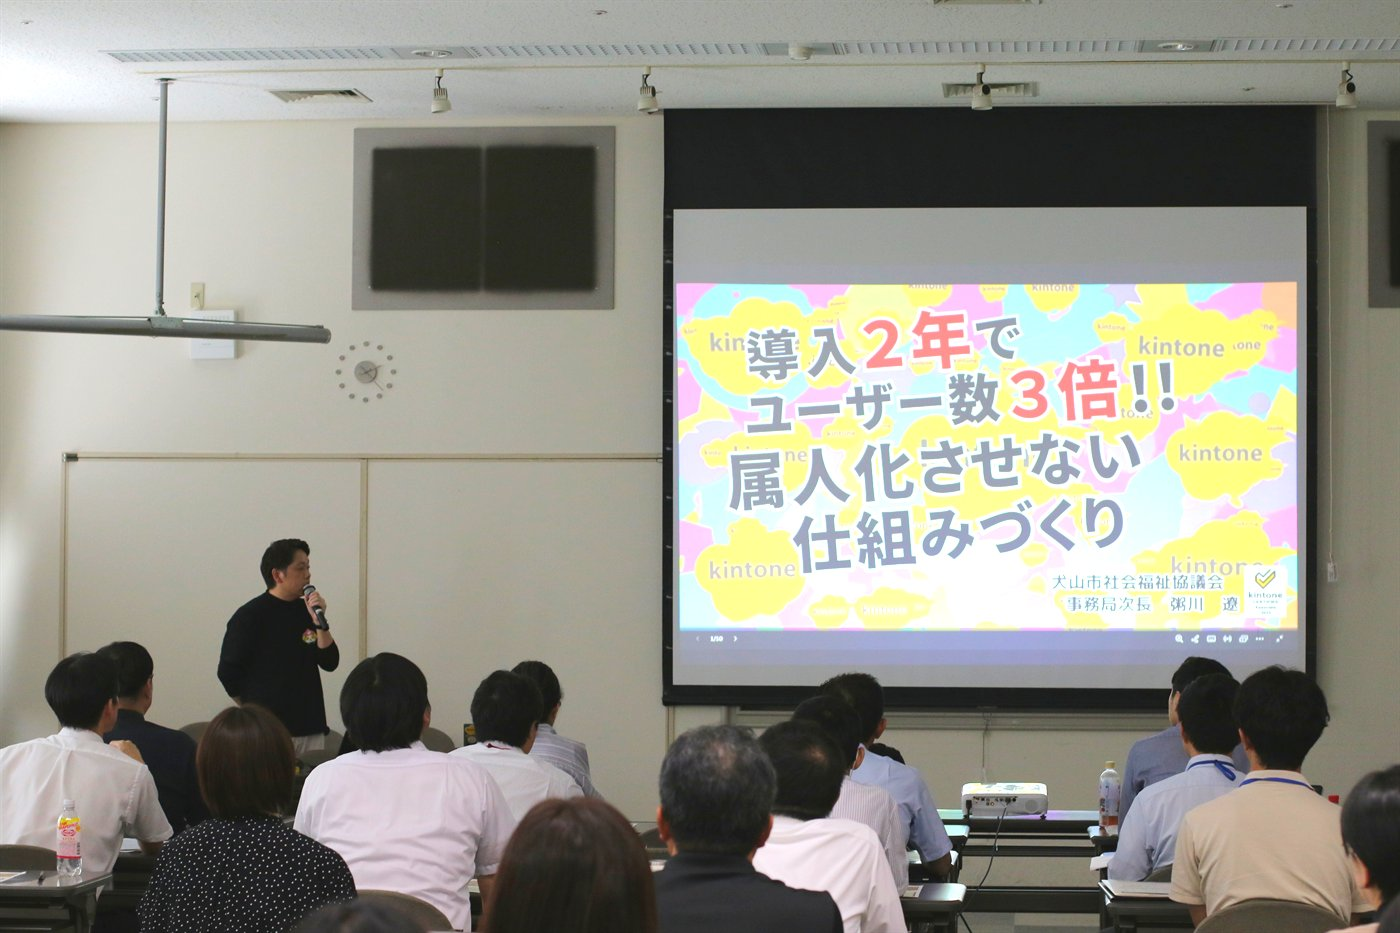
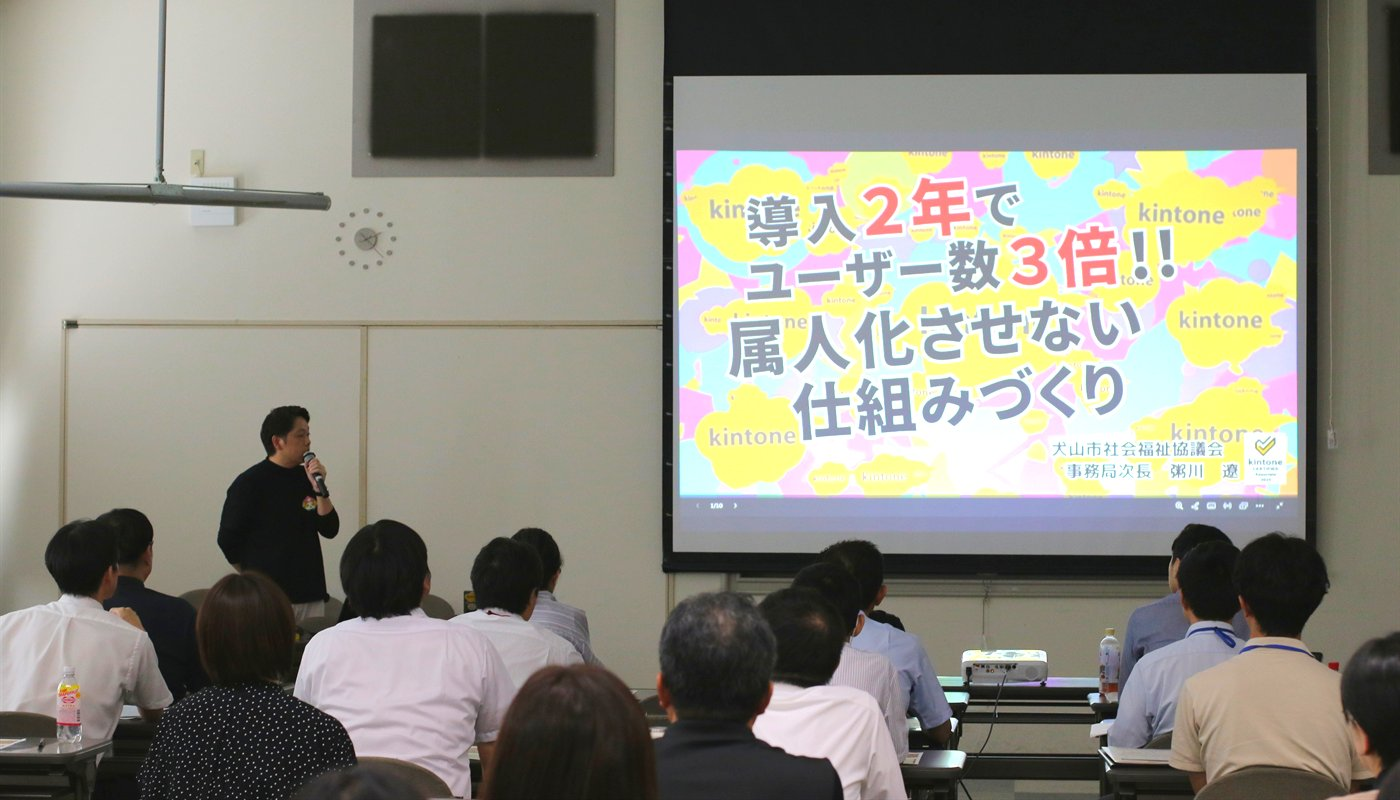
講演2詳細：上部写真3枚を明るく仕上げ、上部1/7カット・比率7:4

diff --git a/events/social-welfare-seminar-2026-08/lecture2.html b/events/social-welfare-seminar-2026-08/lecture2.html
@@ -45,7 +45,7 @@
         .top-photos { display: grid; grid-template-columns: repeat(3, 1fr); gap: 14px; margin: 8px 0 8px; }
         .top-photos figure { margin: 0; }
         .top-photos img {
-            width: 100%; aspect-ratio: 3 / 2; object-fit: cover;
+            width: 100%; aspect-ratio: 7 / 4; object-fit: cover;
             border-radius: 10px; display: block; box-shadow: 0 2px 10px rgba(0,0,0,0.08);
         }
         @media (max-width: 600px) { .top-photos { gap: 8px; } }
